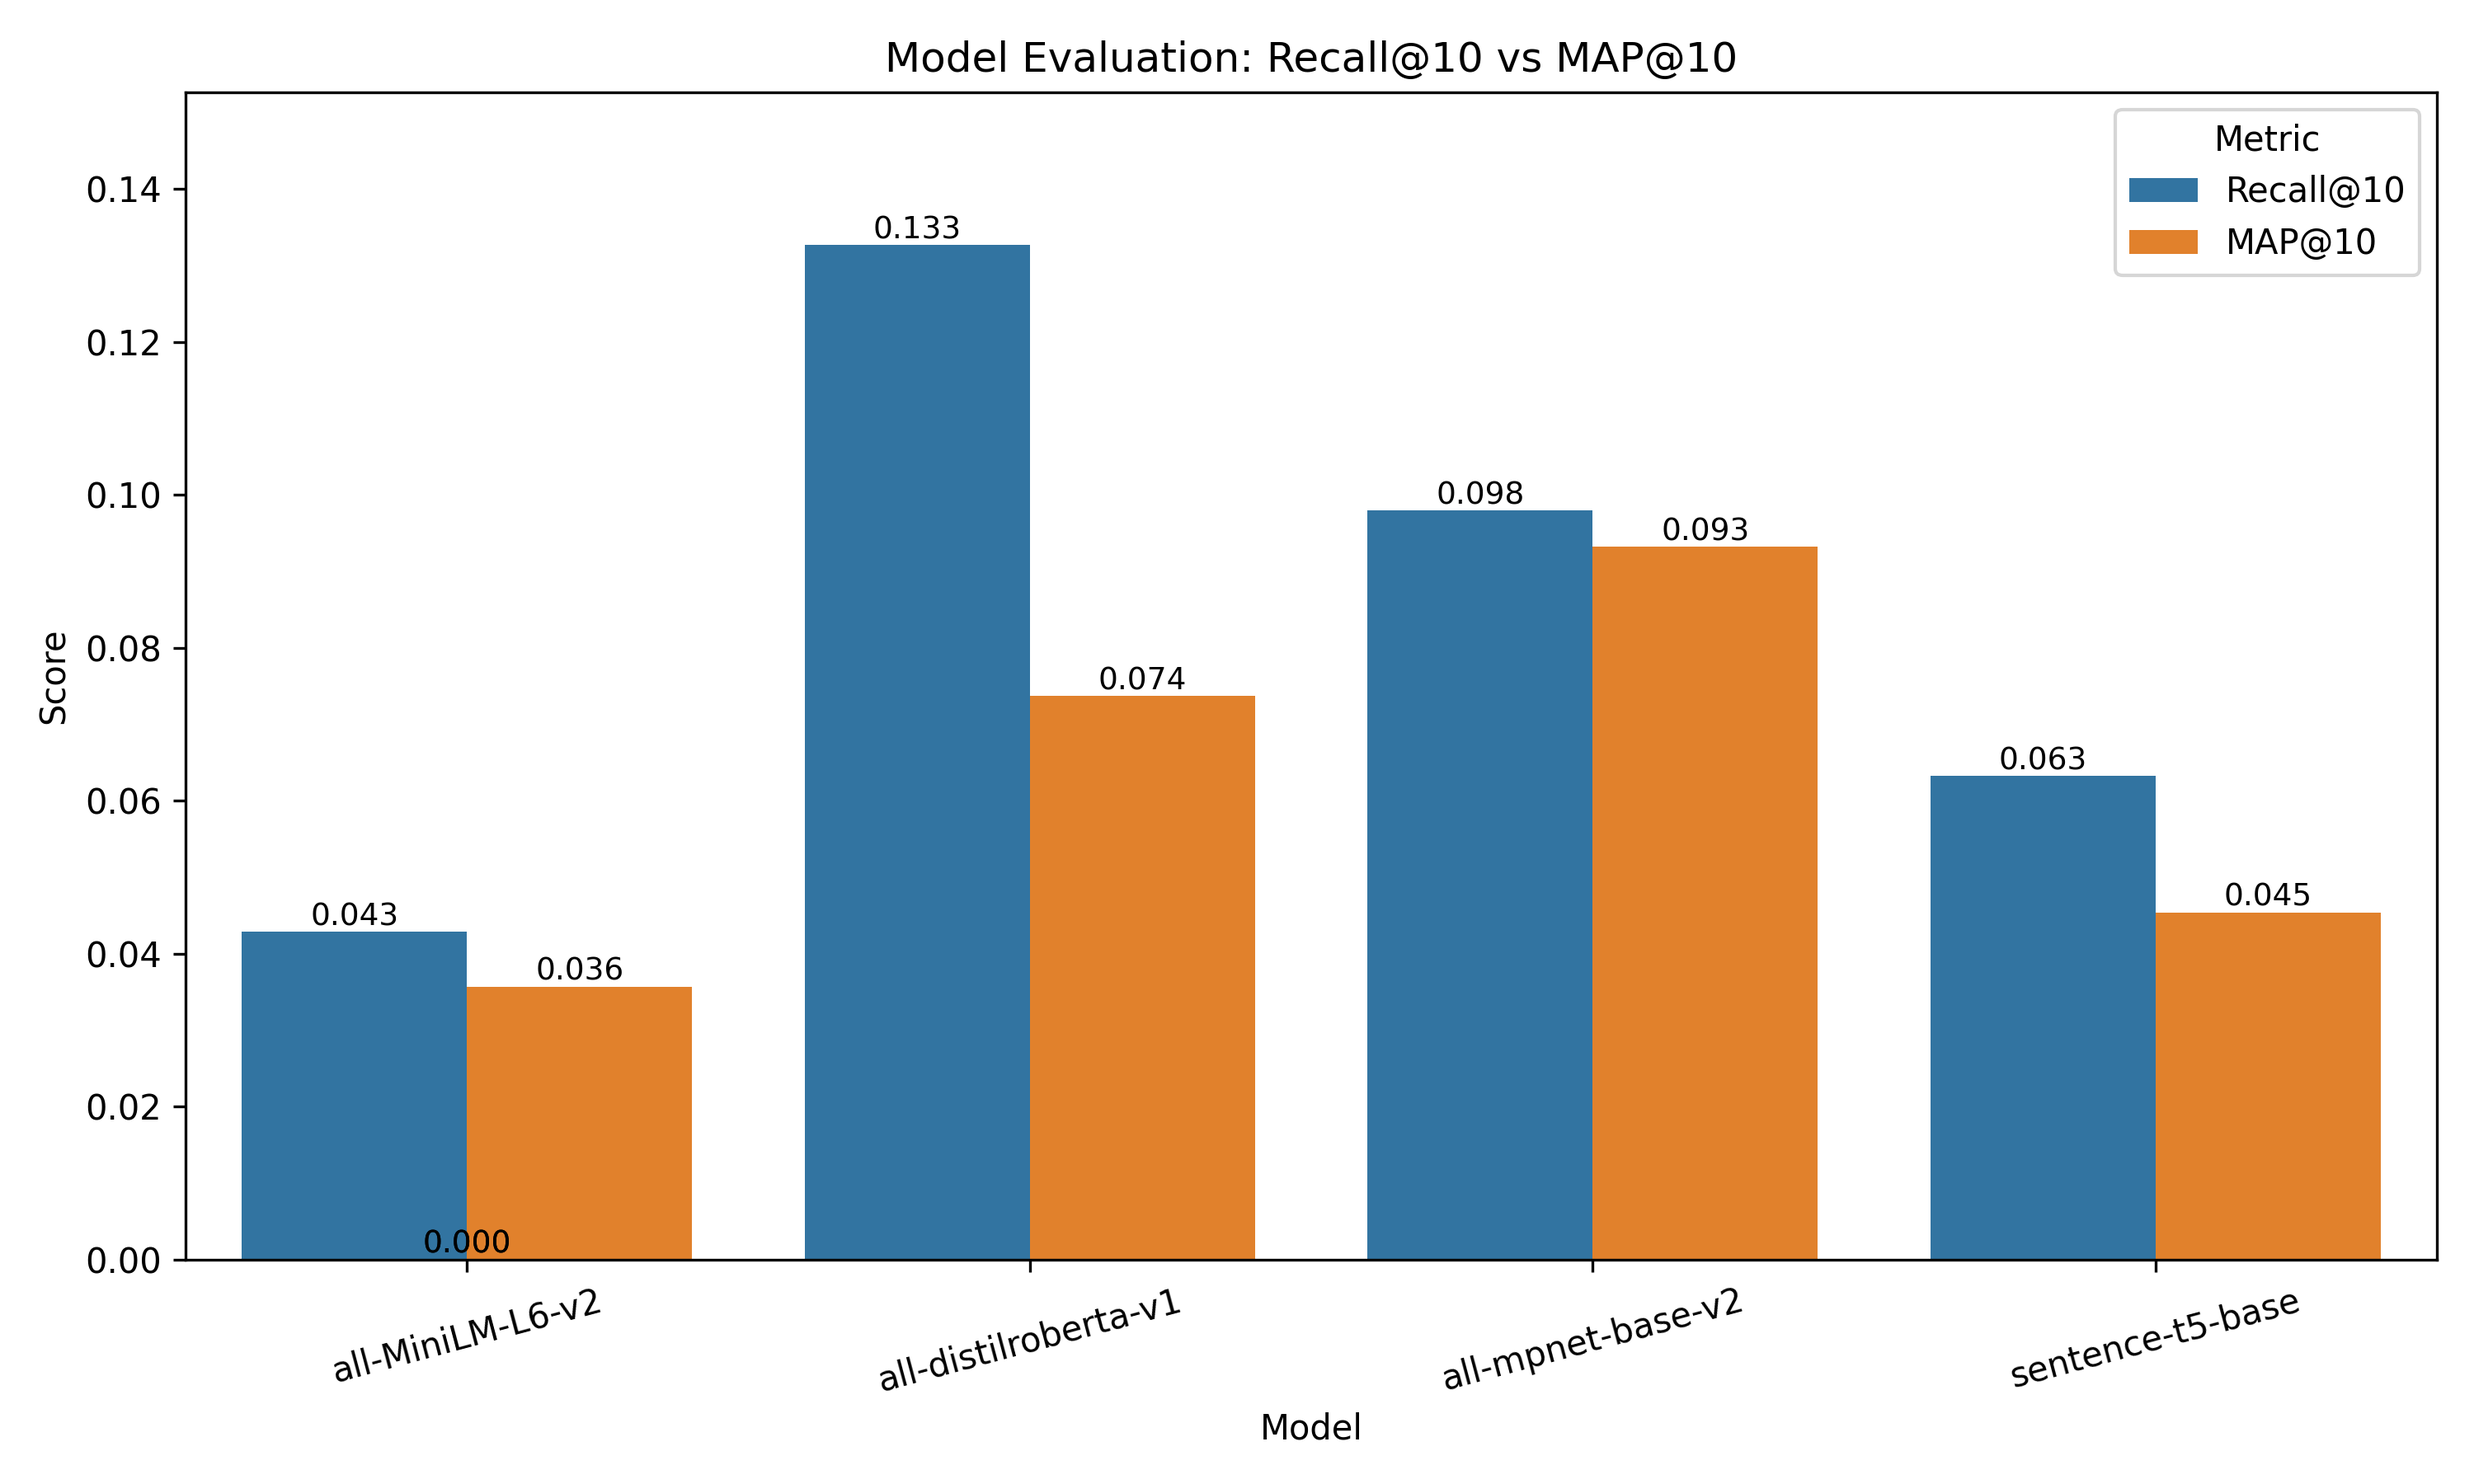
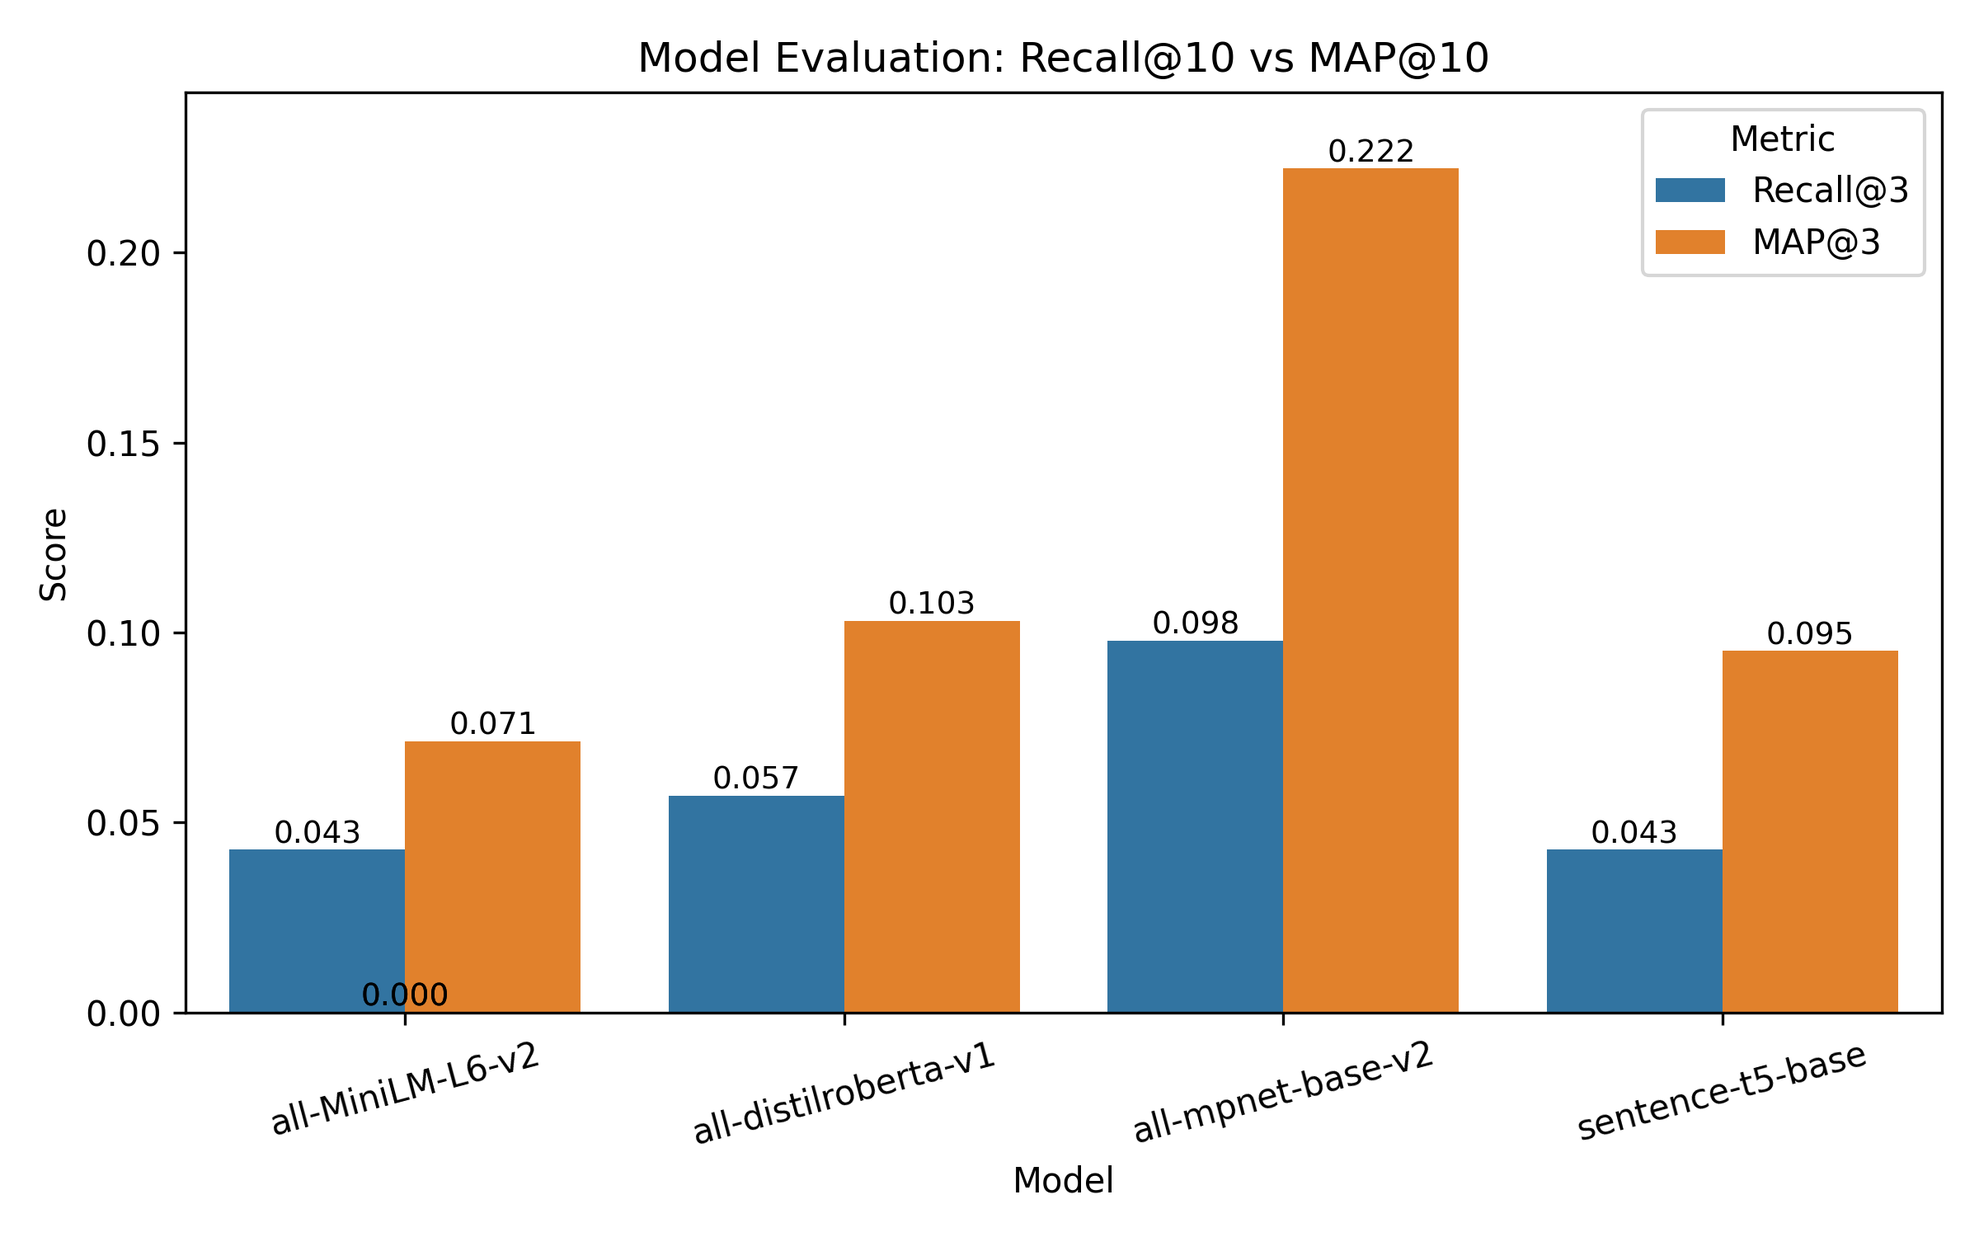
updated the mean@k to mean@3 as per the guideline in the pdf

diff --git a/2. Vectorization/vectorization.py b/2. Vectorization/vectorization.py
@@ -23,7 +23,7 @@ for a in assessments:
     )
     
 # Load sentence transformer model
-model = SentenceTransformer("all-mpnet-base-v2") # Mean Recall@10: 0.098 , Mean MAP@10: 0.093 
+model = SentenceTransformer("all-mpnet-base-v2") # Mean Recall@3: 0.098 , Mean MAP@3: 0.222 
 
 # Generate vectorized embeddings of the individual assessments data
 embedding = model.encode(texts, show_progress_bar=True)

diff --git a/4. BACKEND-API/main.py b/4. BACKEND-API/main.py
@@ -9,7 +9,7 @@ from fastapi.middleware.cors import CORSMiddleware
 from sklearn.preprocessing import normalize
 
 # Load model, index, metadata
-model = SentenceTransformer('all-mpnet-base-v2') # Mean Recall@10: 0.098 , Mean MAP@10: 0.093
+model = SentenceTransformer('all-mpnet-base-v2') # Mean Recall@3: 0.098 , Mean MAP@3: 0.222
 
 index = faiss.read_index("shl_index.faiss")
 
